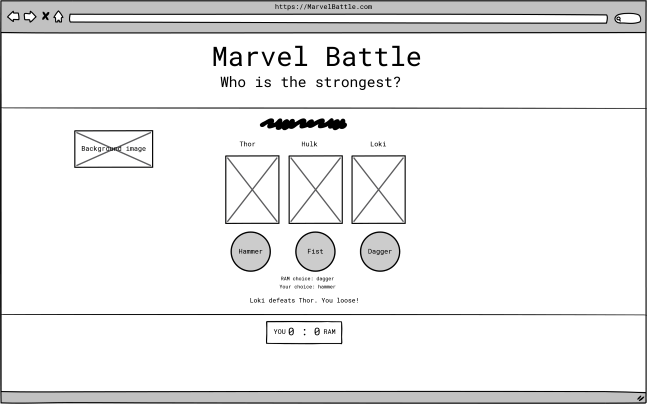
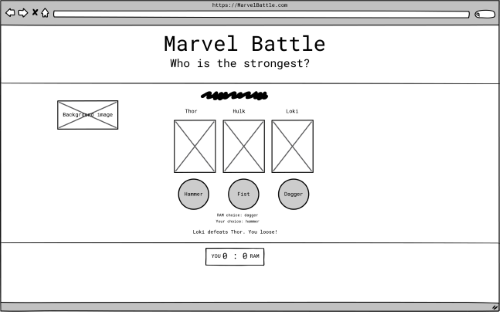
CSS: Add opaque background to footer for accessibility

diff --git a/assets/css/style.css b/assets/css/style.css
@@ -184,16 +184,23 @@ h3 {
 /* FOOTER */
 footer {
     height: 75px;
-    color: #FFFFFF;
     font-size: 0.8em;
+    font-weight:800px;
     margin-bottom: 20px;
+    background-color: rgba(255, 255, 255, 0.4);
+    color: #022B3F;
+    text-align: center;
+    border-radius: 10px;
+    width: 80%;
+    margin: 2em auto;
+    padding: 1.5em;
 }
 
 
 /* MEDIA-QUERIES */
 /* To fit on Ipads and Tablets */
 @media(min-width: 576px) {
-    header, #game,
+    header, footer, #game,
     #register {
         width: 75%;
     }
@@ -203,7 +210,7 @@ footer {
 }
 /* To fit on small screens, laptops  */
 @media (min-width: 768px) {
-    header, #game,
+    header, footer, #game,
     #register {
         width: 65%;
     }
@@ -211,7 +218,7 @@ footer {
 
 /* To fit desktop and large screens */
 @media (min-width: 992px) {
-    header, #game,
+    header, footer, #game,
     #register {
         width: 55%;
     }
@@ -222,7 +229,7 @@ footer {
 
 /* To fit extra large screens, TV */
 @media (min-width: 1480px) {
-    header, #game,
+    header, footer, #game,
     #register {
         width: 40%;
     }
